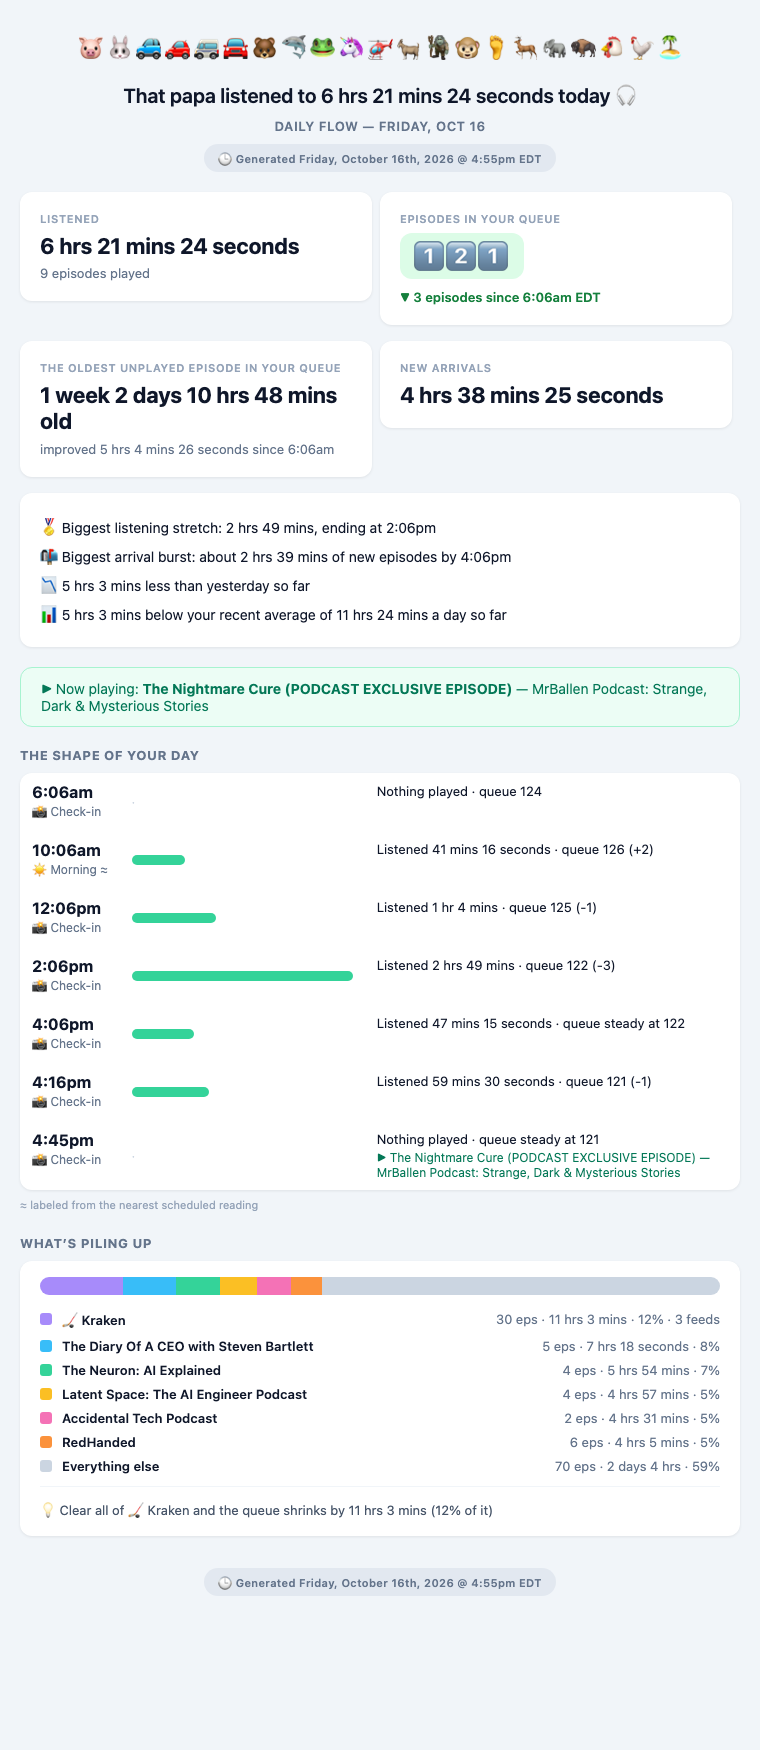
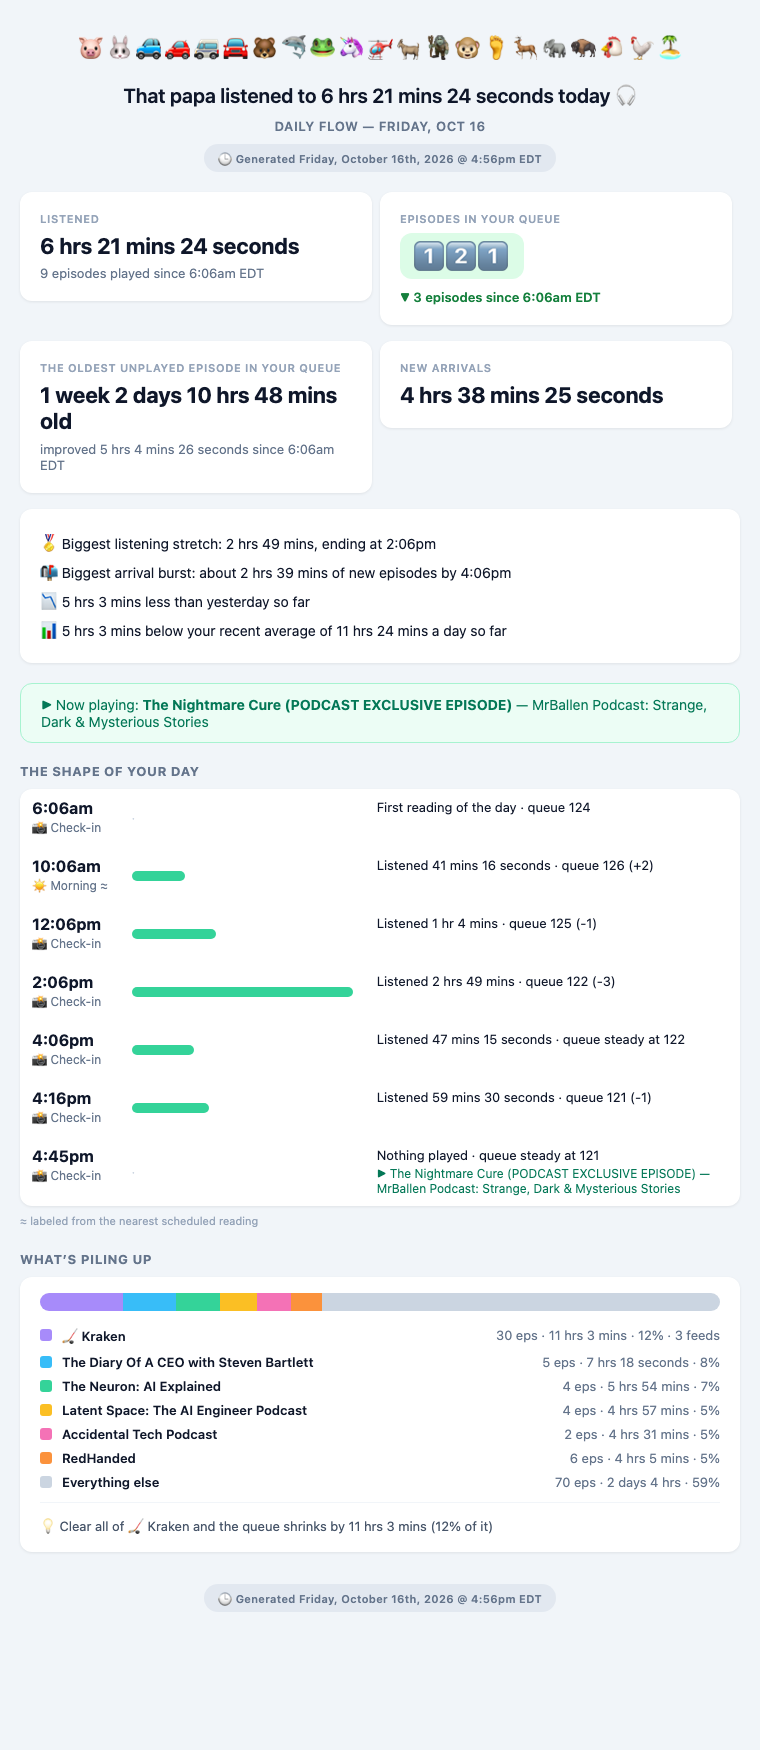
Flow web report: one starting point for every card
Listening now counts from the day's first reading, the same "since 6:06am EDT"
the queue and oldest-episode cards use, and says so on the Listened card. The
first reading of the day is labeled as such instead of carrying a window that
reaches back before it.

Changed region(s): [[0.0303, 0.2777, 0.9684, 0.9257]]

diff --git a/flow.py b/flow.py
@@ -163,8 +163,11 @@ def summarize_day(history, day, tz=None):
     if not snaps:
         return out
     first, last = snaps[0], snaps[-1]
-    out["listened_seconds"] = sum(s["played_seconds"] for s in snaps)
-    out["listened_count"] = sum(s["played_count"] for s in snaps)
+    # The first reading's window reaches back before the day's first reading,
+    # so listening is counted from that reading on - the same "since" the
+    # queue card uses.
+    out["listened_seconds"] = sum(s["played_seconds"] for s in snaps[1:])
+    out["listened_count"] = sum(s["played_count"] for s in snaps[1:])
     out["queue_start"], out["queue_end"] = first, last
     out["queue_count_delta"] = last["queue_count"] - first["queue_count"]
     out["queue_seconds_delta"] = last["queue_seconds"] - first["queue_seconds"]
@@ -197,7 +200,7 @@ def summarize_day(history, day, tz=None):
     day_start = datetime.datetime.combine(
         day, datetime.time(DAY_STARTS_HOUR), tzinfo=zone
     ).astimezone(datetime.timezone.utc)
-    for s in snaps:
+    for s in snaps[1:]:
         if s["played_seconds"] == 0:
             if run_start is None:
                 run_start = s["since"]
@@ -214,7 +217,8 @@ def summarize_day(history, day, tz=None):
     for sn in snaps:
         windows.append({
             "snap": sn,
-            "played": sn["played_seconds"],
+            "first": prev is None,
+            "played": 0 if prev is None else sn["played_seconds"],
             "arrivals": arrivals_seconds(prev, sn) if prev else None,
             "queue_delta": (sn["queue_count"] - prev["queue_count"]) if prev else None,
         })
@@ -238,7 +242,7 @@ def day_context(history, day, tz=None):
     None when there is no data for it."""
     def listened(d):
         snaps = day_snapshots(history, d, tz)
-        return sum(s["played_seconds"] for s in snaps) if snaps else None
+        return sum(s["played_seconds"] for s in snaps[1:]) if snaps else None
     yesterday = listened(day - datetime.timedelta(days=1))
     prior = [x for x in (listened(day - datetime.timedelta(days=i)) for i in range(1, 8)) if x is not None]
     return yesterday, (sum(prior) / len(prior) if prior else None)
@@ -357,6 +361,8 @@ def label_name(snap):
 
 def window_sentence(w):
     sn = w["snap"]
+    if w.get("first"):
+        return f"First reading of the day · queue {sn['queue_count']}"
     bits = [f"Listened {dur_n(w['played'])}" if w["played"] > 0 else "Nothing played"]
     qd = w["queue_delta"]
     if qd is None:
@@ -581,13 +587,18 @@ def queue_tone(start_count, end_count):
     return "better" if end_count < start_count else ("worse" if end_count > start_count else "same")
 
 
+def since_label(snap, tz=None):
+    """"since 6:06am EDT" - the one starting point every card on the page uses."""
+    return f"since {clock(snap, tz)} {local_dt(snap, tz).strftime('%Z')}"
+
+
 def queue_card(qs, qe, tz=None):
     """The queue as its count in big keycap digits on green (shorter than when
     the day started), yellow (the same), or red (longer)."""
     tone = queue_tone(qs["queue_count"], qe["queue_count"])
     bg, fg, arrow = QUEUE_TONES[tone]
     delta = qe["queue_count"] - qs["queue_count"]
-    since = f"since {clock(qs, tz)} {local_dt(qs, tz).strftime('%Z')}"
+    since = since_label(qs, tz)
     n = abs(delta)
     noun = f"{n} episode" + ("" if n == 1 else "s")
     sub = {"better": f"{arrow} {noun} {since}",
@@ -754,10 +765,11 @@ def render_day_html(s, tz=None, generated=None, d=None):
         return _page(title, "<p>No snapshots recorded.</p>", None, generated, tz)
     qs, qe = s["queue_start"], s["queue_end"]
     cards = [
-        _card("Listened", dur(s["listened_seconds"]), f"{s['listened_count']} episodes played"),
+        _card("Listened", dur(s["listened_seconds"]),
+              f"{s['listened_count']} episode{'' if s['listened_count'] == 1 else 's'} played {since_label(qs, tz)}"),
         queue_card(qs, qe, tz),
         _card("The oldest unplayed episode in your queue", f"{dur(qe['behind_seconds'])} old",
-              f"{behind_phrase(s['behind_delta'])} since {clock(qs, tz)}"),
+              f"{behind_phrase(s['behind_delta'])} {since_label(qs, tz)}"),
         _card("New arrivals", dur(s["arrivals_seconds"])),
     ]
     rows = "".join(f"<tr>{cards[i]}{cards[i + 1]}</tr>" for i in range(0, len(cards), 2))

diff --git a/tests/test_flow.py b/tests/test_flow.py
@@ -129,7 +129,10 @@ class DayTests(unittest.TestCase):
     def test_drought_is_clipped_to_the_start_of_the_day(self):
         # the overnight window began at 10pm the evening before; only the
         # time after 4am counts toward this day's quietest stretch
-        history = [snap("2026-10-16T08:00", played_seconds=0, since_local_iso="2026-10-15T22:00")]
+        history = [
+            snap("2026-10-16T05:00", "morning", played_seconds=0),
+            snap("2026-10-16T08:00", played_seconds=0, since_local_iso="2026-10-15T22:00"),
+        ]
         s = flow.summarize_day(history, datetime.date(2026, 10, 16), NY)
         self.assertEqual(s["drought"][0], 4 * 3600)
 
@@ -142,8 +145,11 @@ class DayTests(unittest.TestCase):
 class WeekTests(unittest.TestCase):
     def test_week_totals_and_best_day(self):
         history = [
+            snap("2026-10-12T08:00", "morning", 131, 345000, 905000, 0, 0),
             snap("2026-10-12T21:00", "evening", 130, 340000, 900000, 5, 20000),
+            snap("2026-10-13T08:00", "morning", 130, 340000, 900000, 0, 0),
             snap("2026-10-13T21:00", "evening", 128, 330000, 880000, 6, 30000),
+            snap("2026-10-14T08:00", "morning", 128, 330000, 880000, 0, 0),
             snap("2026-10-14T21:00", "evening", 125, 320000, 860000, 4, 10000),
         ]
         w = flow.summarize_week(history, datetime.date(2026, 10, 14), NY)
@@ -215,13 +221,14 @@ def minimal_run_json():
 class StoryTests(unittest.TestCase):
     def setUp(self):
         self.history = [
+            snap("2026-10-15T08:00", "morning", 119, 280000, 800000, 0, 0),
             snap("2026-10-15T09:00", "evening", 119, 280000, 800000, 2, 3000),
             snap("2026-10-16T09:00", "morning", 120, 300000, 900000, 0, 0),
             snap("2026-10-16T12:00", "manual", 118, 295000, 880000, 3, 7200),
             snap("2026-10-16T22:00", "evening", 119, 298000, 870000, 5, 10800),
         ]
-        self.history[1]["now_playing"] = {"title": "Pregame", "podcast": "Kraken Audio"}
-        self.history[2]["by_show"] = [{"podcast": "Kraken Audio", "count": 59, "seconds": 90000},
+        self.history[2]["now_playing"] = {"title": "Pregame", "podcast": "Kraken Audio"}
+        self.history[3]["by_show"] = [{"podcast": "Kraken Audio", "count": 59, "seconds": 90000},
                                       {"podcast": "RedHanded", "count": 30, "seconds": 40000}]
         self.s = flow.summarize_day(self.history, datetime.date(2026, 10, 16), NY)
 
@@ -309,6 +316,23 @@ class StoryTests(unittest.TestCase):
         self.assertIn("No change since 9:00am EDT", card(121, 121))
         self.assertIn("#fee2e2", card(121, 124))
         self.assertIn("▲ 3 episodes since 9:00am EDT", card(121, 124))
+
+    def test_listening_counts_from_the_first_reading_of_the_day(self):
+        # the first reading's window reaches back before the day's first reading
+        history = [
+            snap("2026-10-16T09:00", "morning", 120, 300000, 900000, 4, 9999),
+            snap("2026-10-16T12:00", "manual", 118, 295000, 880000, 3, 7200),
+        ]
+        s = flow.summarize_day(history, datetime.date(2026, 10, 16), NY)
+        self.assertEqual((s["listened_seconds"], s["listened_count"]), (7200, 3))
+        self.assertEqual(flow.window_sentence(s["windows"][0]), "First reading of the day · queue 120")
+        self.assertEqual(s["biggest_listen"]["snap"]["label"], "manual")
+
+    def test_every_card_says_since_the_same_time(self):
+        s = flow.summarize_day(self.history, datetime.date(2026, 10, 16), NY)
+        page = flow.render_day_html(s, NY)
+        self.assertEqual(page.count("since 9:00am EDT"), 3)
+        self.assertIn("episodes played since 9:00am EDT", page)
 
     def test_labels_have_names_and_approximate_ones_are_marked(self):
         self.assertEqual(flow.label_name({"label": "dash-end"}), "🏁 Dash end")
